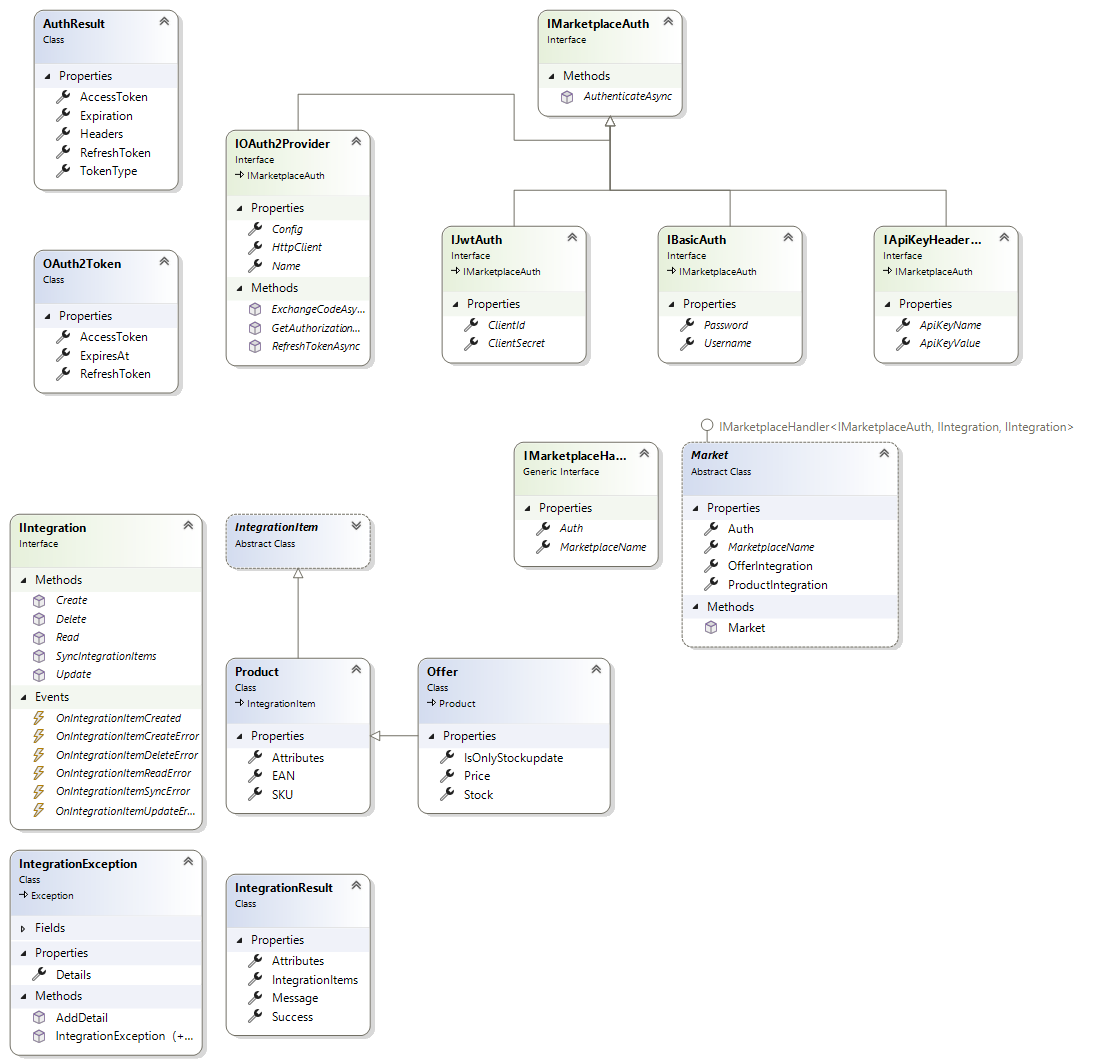
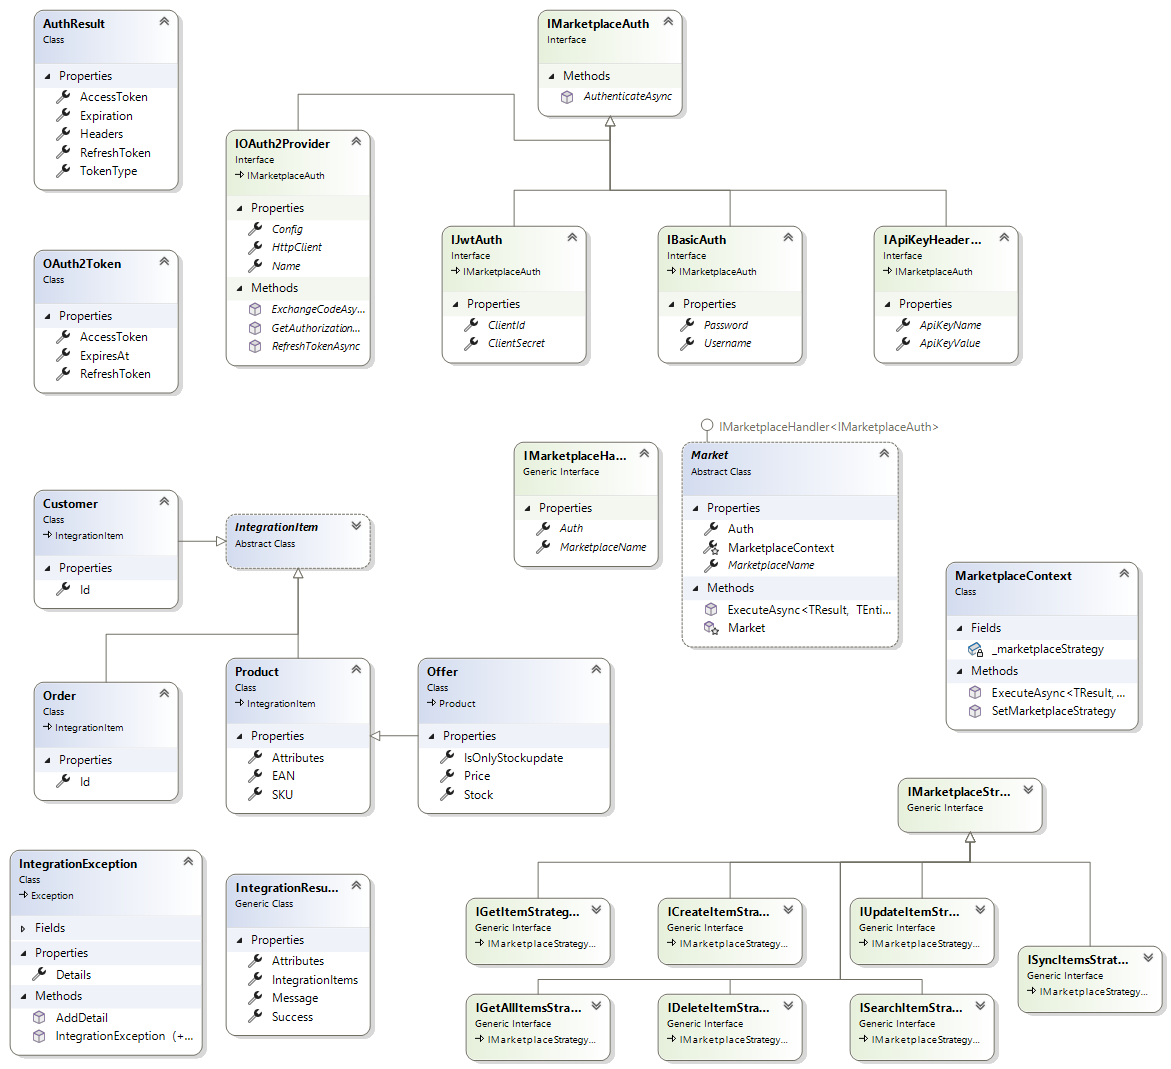
Enhance eBay integration with strategy pattern
Updated ClassDiagram to reposition IMarketplaceStrategy.
Modified EBayGetProductStrategy to implement Name property
and provide a functional ExecuteAsync method for product
retrieval by EAN. Revised README.md to remove outdated
examples and include new use-case scenarios for product
retrieval and handling. Improved product handling logic
to utilize the new strategy pattern for better
integration and synchronization.

diff --git a/MarketplacePlugin/MockImplementation/Products/EBayGetProductStrategy.cs b/MarketplacePlugin/MockImplementation/Products/EBayGetProductStrategy.cs
@@ -16,7 +16,7 @@ namespace MarketplacePlugin.MockImplementation.Products
             _marketplaceAPIService = marketplaceAPIService;
         }
 
-        public string Name => throw new NotImplementedException();
+        public string Name => "eBay get product by ean";
 
         /// <summary>
         /// Executes the strategy asynchronously to retrieve a product from eBay by EAN.
@@ -28,7 +28,6 @@ namespace MarketplacePlugin.MockImplementation.Products
         /// </returns>
         public async Task<IntegrationResult<Product>> ExecuteAsync(string ean, CancellationToken cancellationToken = default)
         {
-            // Mock implementation: In a real scenario, you would call eBay's API to get the product by ID.
             var product = await _marketplaceAPIService.GetProductByIdAsync(ean, cancellationToken);
             return new IntegrationResult<Product> { Success = true, IntegrationItems = new List<Product> { product } };
         }

diff --git a/README.md b/README.md
@@ -29,31 +29,98 @@ public class EBayMarket : Market
 ```
 
 2. Implement IMarketplaceAuth that is needed for specific marketplace, for example eBay => implement IOAuth2Provider
-3. Implement IIntegration for products
-4. Implement IIntegration for offers
-
-### Product creation use-case example
+3. Implement all needed IMarketplaceStrategy
 ```
-public async Task Test(List<Product> products)
+//example implementation for retrieving product from eBay
+    
+/// <summary>
+/// Strategy for retrieving an eBay product by its EAN.
+/// </summary>
+public class EBayGetProductByEANStrategy : IGetItemStrategy<Product, string>
 {
-    // Example usage:
+    private readonly EBayAPIService _marketplaceAPIService;
+    public EBayGetProductByEANStrategy(EBayAPIService marketplaceAPIService)
+    {
+        _marketplaceAPIService = marketplaceAPIService;
+    }
+
+    public string Name => "eBay get product by ean";
+
+    /// <summary>
+    /// Executes the strategy asynchronously to retrieve a product from eBay by EAN.
+    /// </summary>
+    /// <param name="ean">The European Article Number (EAN) of the product.</param>
+    /// <param name="cancellationToken">A token to monitor for cancellation requests.</param>
+    /// <returns>
+    /// A task that represents the asynchronous operation. The task result contains the retrieved <see cref="IntegrationItem"/>.
+    /// </returns>
+    public async Task<IntegrationResult<Product>> ExecuteAsync(string ean, CancellationToken cancellationToken = default)
+    {
+        var product = await _marketplaceAPIService.GetProductByIdAsync(ean, cancellationToken);
+        return new IntegrationResult<Product> { Success = true, IntegrationItems = new List<Product> { product } };
+    }
+}
+```
+
+### Use-case example
+```
+public async Task Test()
+{
     HttpClient httpClient = new HttpClient();
     EBayOAuth2Provider auth = new EBayOAuth2Provider(httpClient, new Interfaces.Login.OAuth2.OAuth2ProviderConfig(null, null, null, null, null, null, null, null));
     var authResult = await auth.AuthenticateAsync();
 
-    //handle create products
-    IIntegration productIntegration = new ProductIntegration(); // Replace with actual implementation of IIntegration for products
+    //initialize market
+    EBayMarket eBayMarket = new EBayMarket(auth);
+    EBayAPIService marketplaceAPIService = new EBayAPIService(); //create service for calling marketplace API
 
-    //subscribe to events
-    productIntegration.OnIntegrationItemCreated += (s, e) =>
+    //for simplicity, we create strategies here. In a real-world scenario, consider using a DI container.
+    IMarketplaceStrategy<Product, string> getItemStrategy = new EBayGetProductByEANStrategy(marketplaceAPIService);
+    IMarketplaceStrategy<Product, Product> updateStrategy = new EBayUpdateProductStrategy(marketplaceAPIService);
+    IMarketplaceStrategy<Product, List<Product>> syncStrategy = new EBaySyncProductsStrategy(marketplaceAPIService);
+    IMarketplaceStrategy<Customer, string> getCustomerStrategy = new EBayGetCustomerByIdStrategy(marketplaceAPIService);
+    IMarketplaceStrategy<Order, string> getOrderStrategy = new EBayGetOrderByIdStrategy(marketplaceAPIService);
+
+    //get order example
+    string orderID = "exampleOrderID";
+    var integrationResultOrder = await eBayMarket.ExecuteAsync(getOrderStrategy, orderID);
+    var order = integrationResultOrder.IntegrationItems?.FirstOrDefault();
+    //handle order as needed
+    if (order != null)
     {
-    };
+        // Process the order
+    }
 
-    EBayMarket eBayMarket = new EBayMarket(auth, productIntegration, null);
+    //handling products
+    List<Product> products = new List<Product>
+    {
+        new Product { EAN = "1234567890123", SKU = "SKU001" },
+        new Product { EAN = "2345678901234", SKU = "SKU002" }
+    };
     foreach (var product in products)
     {
-        var createProductResult = await eBayMarket.ProductIntegration.Create(product);
+        var integrationResult = await eBayMarket.ExecuteAsync(getItemStrategy, product.EAN);
+        var existingItem = integrationResult.IntegrationItems?.FirstOrDefault();
+        if (!string.IsNullOrEmpty(existingItem?.SKU))
+        {
+            //item exists, update it                                        
+            var updateProductResult = await eBayMarket.ExecuteAsync(updateStrategy, product);
+            if (!updateProductResult.Success)
+            {
+                //handle error
+                var message = updateProductResult.Message;
+            }
+        }
     }
+
+    //synchronize products
+    await eBayMarket.ExecuteAsync(syncStrategy, products);
+
+
+    //handling customers            
+    string customerID = "exampleCustomerID";
+    var integrationResultCustomer = await eBayMarket.ExecuteAsync(getCustomerStrategy, customerID);
+    var customer = integrationResultCustomer.IntegrationItems?.FirstOrDefault();
 }
 ```
 
